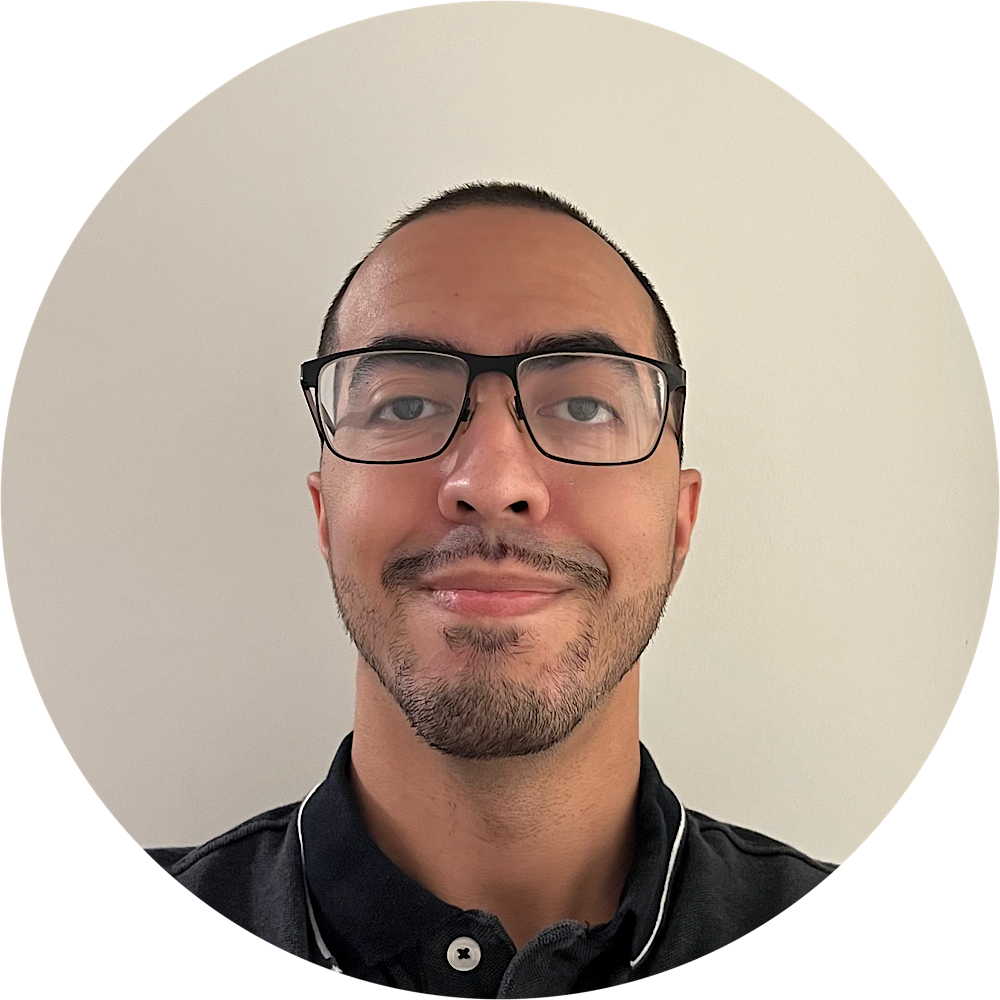
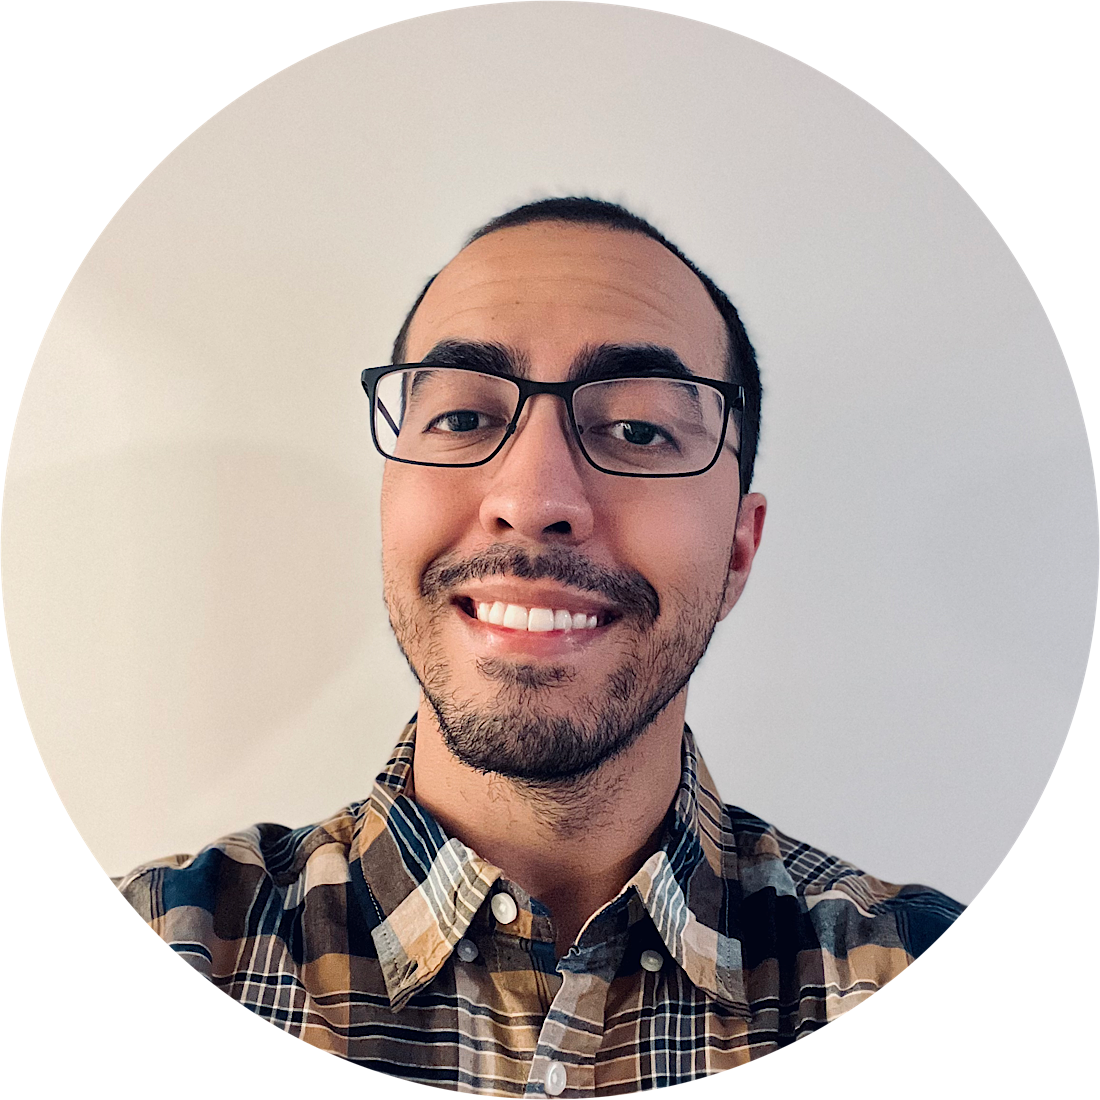
added new project, and changed intro style/added pfp

diff --git a/pages/developer-application.js b/pages/developer-application.js
@@ -1,0 +1,136 @@
+import React from 'react'
+import Carousel from 'react-multi-carousel'
+import 'react-multi-carousel/lib/styles.css'
+
+const responsive = {
+  superLargeDesktop: {
+    breakpoint: { max: 4000, min: 3000 },
+    items: 5,
+  },
+  desktop: {
+    breakpoint: { max: 3000, min: 1024 },
+    items: 2,
+    paritialVisibilityGutter: 50,
+  },
+  tablet: {
+    breakpoint: { max: 1024, min: 464 },
+    items: 1,
+    paritialVisibilityGutter: 50,
+  },
+  mobile: {
+    breakpoint: { max: 464, min: 0 },
+    items: 1,
+  },
+}
+
+export default function DeveloperApplication() {
+  return (
+    <div className="flex flex-col items-center gap-8">
+      <h1 className="sm:text-6xl text-5xl sm:mb-12 mt-4 px-4 font-semibold text-center">
+        Developer Application
+      </h1>
+      <Carousel
+        responsive={responsive}
+        itemClass={`image-item`}
+        className="sm:w-5/6 w-full"
+      >
+        <img src="/applicationSS.png" className=""></img>
+        <img src="/developer-application-SS2.png" className=""></img>
+        <img src="/developer-application-SS3.png" className=""></img>
+        <img src="/developer-application-SS4.png" className=""></img>
+        <img src="/developer-application-SS5.png" className=""></img>
+      </Carousel>
+
+      <div className="flex flex-col items-center">
+        <h2 className="sm:text-3xl text-2xl mt-4 font-semibold">
+          Technology Used
+        </h2>
+        <div className="flex items-center gap-4  flex-wrap md:w-full w-5/6 justify-center mb-2 mt-6">
+          <img src="/reactIcon.png" className="h-20 w-30 "></img>
+          <img src="/typescriptIcon.png" className="h-16 w-26 "></img>
+          <img src={`/nextjsIconWhite.png`} className="h-20 w-30"></img>
+          <img src="/sassLogo.png" className="h-16 w-30"></img>
+        </div>
+      </div>
+      <ul className="list-disc px-8 gap-2 flex flex-col pb-4 sm:w-3/4 w-full sm:text-lg text-md tracking-wide">
+        <li>
+          I used Next.js as my react framework as I do for most projects, as I
+          find it the most feature rich and performant. For styling I used SCSS
+          syntax.
+        </li>
+        <li>
+          I also used TypeScript as default over JavaScript. Jest with React
+          Testing Library is used for unit testing components.
+        </li>
+      </ul>
+
+      <article className="flex flex-col items-center gap-6">
+        <h2 className="sm:text-3xl text-2xl mb-2 font-semibold">Description</h2>
+        <ul className="list-disc px-8 gap-2 flex flex-col pb-4 sm:w-3/4 w-full sm:text-lg text-md tracking-wide">
+          <li>
+            Four step application designed to be simplified to relevant
+            information to a frontend developers.
+          </li>
+          <li>
+            The first step has one form for name, one for email, and one for
+            phone number. All three have placeholders and are outlined when
+            focused.
+          </li>
+          <li>
+            The second step is used to upload a resume. It uses the input
+            type="file" to allow the user to upload thier resume from thier
+            computer. The resume name is displayed after successfully uploading.
+          </li>
+          <li>
+            The third step is a grid of checkboxes of frontend related
+            technologies with an icon for each. The checkboxes are outlined when
+            checked and persist through steps.
+          </li>
+          <li>
+            The fourth step is a summary of all user entered information so far.
+            With a section for personal info and with skills displayed in
+            bubbles below. If each personal information is not entered, an error
+            with display and the user cannot proceed to confirm for the final
+            step.
+          </li>
+          <li>
+            Once the user clicks confirm on the fourth step, a confirmation
+            screen displays, showing a thank you message with some contact
+            information.
+          </li>
+        </ul>
+
+        <h2 className="sm:text-3xl text-2xl mb-2 font-semibold">
+          Challenges/What I Learned
+        </h2>
+        <ul className="list-disc px-8 gap-2 flex flex-col pb-4 sm:w-3/4 w-full sm:text-lg text-md tracking-wide">
+          <li>
+            First time using SCSS syntax in a project, so i was able to learn
+            about the different additions it provides over vanilla CSS. For
+            example i used a lot of the nesting structure, along with some
+            mixins.
+          </li>
+          <li>
+            The design for this website was taken from a FrontendMentor
+            challenge, so I was able to practice taking the visual design given
+            and construct it into an actual website. Since i altered the theme
+            of the forms, I had to make my own pages for the resume upload and
+            skill checkboxes.
+          </li>
+        </ul>
+
+        <h2 className="sm:text-3xl text-2xl mb-2 font-semibold text-center">
+          Potential Additions/Improvements
+        </h2>
+        <ul className="list-disc px-8 gap-2 flex flex-col pb-4 sm:w-3/4 w-full sm:text-lg text-md tracking-wide">
+          <li>
+            Restrict the text users can enter into personal info fields and
+            display an error
+          </li>
+          <li>Allow user to enter thier own skills in addition</li>
+          <li>Allow user to edit thier info from the summary page</li>
+        </ul>
+      </article>
+    </div>
+  )
+}

diff --git a/pages/anime-database.js b/pages/anime-database.js
@@ -43,10 +43,10 @@ export default function AnimeDatabase() {
         <h2 className="sm:text-3xl text-2xl mt-4 font-semibold">
           Technology Used
         </h2>
-        <div className="flex items-center gap-2  flex-wrap md:w-full w-5/6 justify-center mb-2">
-          <img src="/reactIcon.png" className="h-20 w-30 mt-4"></img>
-          <img src="/typescriptIcon.png" className="h-16 w-26 mt-4"></img>
-          <img src="/reduxIcon.png" className="h-20 w-30 mt-4"></img>
+        <div className="flex items-center gap-4  flex-wrap md:w-full w-5/6 justify-center mb-2 mt-6">
+          <img src="/reactIcon.png" className="h-20 w-30 "></img>
+          <img src="/typescriptIcon.png" className="h-16 w-26 "></img>
+          <img src="/reduxIcon.png" className="h-20 w-30 "></img>
           <img src={`/nextjsIconWhite.png`} className="h-20 w-30"></img>
           <img src="/tailwindIcon.png" className=" aspect-5/3 max-h-14"></img>
         </div>
@@ -59,7 +59,8 @@ export default function AnimeDatabase() {
           process.
         </li>
         <li>
-          First project using typescript, so only used simple types and inferred types.
+          First project using typescript, so only used simple types and inferred
+          types.
         </li>
       </ul>
 
@@ -74,8 +75,8 @@ export default function AnimeDatabase() {
             all anime, with pagination for all results and categories.
           </li>
           <li>
-            There is a calendar that users can add currently air anime&apos;s to to
-            track what day of the week they air, using local storage.
+            There is a calendar that users can add currently air anime&apos;s to
+            to track what day of the week they air, using local storage.
           </li>
         </ul>
 

diff --git a/components/Header.js b/components/Header.js
@@ -22,7 +22,7 @@ export default function Header(props) {
       >
         <button
           onClick={() => props.setWorkScroll(true)}
-          className={`sm:mr-6 tracking-wide hover:bg-indigo-500 bg-[#626794] px-2 py-[1px] rounded-2xl font-semibold ${
+          className={`sm:mr-6 tracking-wide hover:bg-[#626794] border-[#626794] border-2 px-2 py-[1px] rounded-2xl font-semibold ${
             props.lightMode ? ' text-white bg-[#244257]' : ''
           }`}
         >
@@ -30,7 +30,7 @@ export default function Header(props) {
         </button>
         <button
           onClick={() => props.setAboutMeScroll(true)}
-          className={`sm:mr-6 tracking-wide hover:bg-indigo-500 bg-[#626794] px-2 py-[1px] rounded-2xl font-semibold ${
+          className={`sm:mr-6 tracking-wide hover:bg-[#626794] border-[#626794] border-2 px-2 py-[1px] rounded-2xl font-semibold ${
             props.lightMode ? ' text-white bg-[#244257]' : ''
           }`}
         >
@@ -38,7 +38,7 @@ export default function Header(props) {
         </button>
         <button
           onClick={() => props.setContactScroll(true)}
-          className={`sm:mr-6 tracking-wide hover:bg-indigo-500 bg-[#626794] px-2 py-[1px] rounded-2xl font-semibold ${
+          className={`sm:mr-6 tracking-wide hover:bg-[#626794] border-[#626794] border-2 px-2 py-[1px] rounded-2xl font-semibold ${
             props.lightMode ? ' text-white bg-[#244257]' : ''
           }`}
         >

diff --git a/components/Intro.js b/components/Intro.js
@@ -3,20 +3,20 @@ import React from 'react'
 export default function Intro(props) {
   return (
     <div
-      className={`flex flex-col justify-center items-center text-center mt-14 md:mt-20 border-b-8 rounded-lg py-8 w-11/12 md:w-3/4 self-center drop-shadow-lg bg-gradient-to-t from-[#37457370] ${
+      className={`flex flex-col justify-center items-center text-center mt-14 md:mt-20 rounded-lg py-8 w-11/12 md:w-3/4 self-center drop-shadow-lg bg-gradient-to-t from-[#37457370] ${
         props.lightMode ? 'bg-[#052033] text-white rounded-lg' : ''
       }`}
     >
       <h1 className="font-bold text-4xl sm:tracking-wide pb-6">
         Hi, I&apos;m Brandon
       </h1>
-      {/* <img
-        src="/pfp.webp"
-        className="h-52 sm:h-72 w-52 sm:w-72 self-center mt-8 "
+      <img
+        src="/pfp.png"
+        className="h-52 sm:h-72 w-52 sm:w-72 self-center mt-8 rounded-full border-8 border-[#052033]"
         alt="profile picture"
-      /> */}
+      />
       <div className="flex justify-center mt-4">
-        <p className="md:text-4xl text-2xl md:w-3/4 text-center font-bold  tracking-wide">
+        <p className="md:text-4xl text-2xl md:w-3/4 text-center font-bold  tracking-wide ">
           I am a Frontend Developer who enjoys solving interesting problems and
           building websites people love to use.
         </p>

diff --git a/components/Projects.js b/components/Projects.js
@@ -192,6 +192,30 @@ export default function Work({ workScroll, setWorkScroll, lightMode }) {
       showing: false,
       showingDescription: false,
     },
+    {
+      title: 'Developer Application',
+      image: '/applicationSS.png',
+      github: 'https://github.com/brandonrainey/developer-application-v2',
+      live: 'https://developer-job-application.netlify.app',
+      page: '/developer-application',
+      description: (
+        <ul className="transition-all list-disc list-inside gap-2 px-1s">
+          <li className="mb-1">
+            A simplified three step application, created specifically for a
+            frontend developer.
+          </li>
+          <li className="mb-1">
+            Utilizes multiple different input element styles to take in data
+            from the user.
+          </li>
+          <li className="mb-1">
+            Created using Next.js React framework, styled using SCSS
+          </li>
+        </ul>
+      ),
+      showing: false,
+      showingDescription: false,
+    },
   ])
 
   function handleMoveOut() {

diff --git a/pages/reddit-clone.js b/pages/reddit-clone.js
@@ -45,11 +45,11 @@ export default function RedditClone() {
         <h2 className="sm:text-3xl text-2xl mt-4 font-semibold">
           Technology Used
         </h2>
-        <div className="flex items-center gap-2  flex-wrap md:w-full w-5/6 justify-center mb-2">
-          <img src="/reactIcon.png" className="h-20 w-30 mt-4"></img>
+        <div className="flex items-center gap-4  flex-wrap md:w-full w-5/6 justify-center mt-6">
+          <img src="/reactIcon.png" className="h-20 w-30"></img>
           <img src={`/nextjsIconWhite.png`} className="h-20 w-30"></img>
           <img src="/tailwindIcon.png" className=" aspect-5/3 max-h-14"></img>
-          <img src="/firebaseIcon.png" className="h-24 w-30 mt-4"></img>
+          <img src="/firebaseIcon.png" className="h-24 w-30"></img>
         </div>
       </div>
       <ul className="list-disc px-8 gap-2 flex flex-col pb-4 sm:w-3/4 w-full sm:text-lg text-md tracking-wide">

diff --git a/pages/twitch-follow-tracker.js b/pages/twitch-follow-tracker.js
@@ -43,9 +43,9 @@ export default function TwitchFollowTracker() {
         <h2 className="sm:text-3xl text-2xl mt-4 font-semibold">
           Technology Used
         </h2>
-        <div className="flex items-center gap-4  flex-wrap md:w-full w-5/6 justify-center mb-2">
-          <img src="/reactIcon.png" className="h-20 w-30 mt-4"></img>
-          <img src="/reduxIcon.png" className="h-16 w-30 mt-4"></img>
+        <div className="flex items-center gap-4  flex-wrap md:w-full w-5/6 justify-center mt-6">
+          <img src="/reactIcon.png" className="h-20 w-30 "></img>
+          <img src="/reduxIcon.png" className="h-16 w-30 "></img>
           <img src={`/nextjsIconWhite.png`} className="h-20 w-30"></img>
           <img src="/tailwindIcon.png" className=" aspect-5/3 max-h-14"></img>
         </div>

diff --git a/pages/tile-memory-game.js b/pages/tile-memory-game.js
@@ -44,8 +44,8 @@ export default function TileMemoryGame() {
         <h2 className="sm:text-3xl text-2xl mt-4 font-semibold">
           Technology Used
         </h2>
-        <div className="flex items-center gap-2  flex-wrap md:w-full w-5/6 justify-center mb-2">
-          <img src="/reactIcon.png" className="h-20 w-30 mt-4"></img>
+        <div className="flex items-center gap-4  flex-wrap md:w-full w-5/6 justify-center mt-6">
+          <img src="/reactIcon.png" className="h-20 w-30 "></img>
           <img src={`/nextjsIconWhite.png`} className="h-20 w-30"></img>
           <img src="/tailwindIcon.png" className=" aspect-5/3 max-h-14"></img>
         </div>

diff --git a/tailwind.config.js b/tailwind.config.js
@@ -2,7 +2,11 @@ module.exports = {
   content: ['./pages/**/*.{js,ts,jsx,tsx}', './components/**/*.{js,ts,jsx,tsx}'],
   darkMode: 'media', // or 'media' or 'class'
   theme: {
-    extend: {},
+    extend: {
+      boxShadow: {
+      'pfp': '0 0 8px 8px #052033 inset'
+    }
+    },
     flex: {
       '4': '1 0 21%',
     },
@@ -20,6 +24,7 @@ module.exports = {
       '5/3': '5 / 3',
       '1.9/1': '1.9 / 1'
     },
+    
     
   },
   variants: {

diff --git a/components/Skills.js b/components/Skills.js
@@ -1,9 +1,6 @@
 import React from 'react'
 
-
 export default function Skills({ lightMode }) {
-  
-
   return (
     <div className="flex justify-center mt-40 flex-col text-center">
       <h1 className="font-bold text-5xl sm:tracking-wide underline underline-offset-[16px] pb-8">
